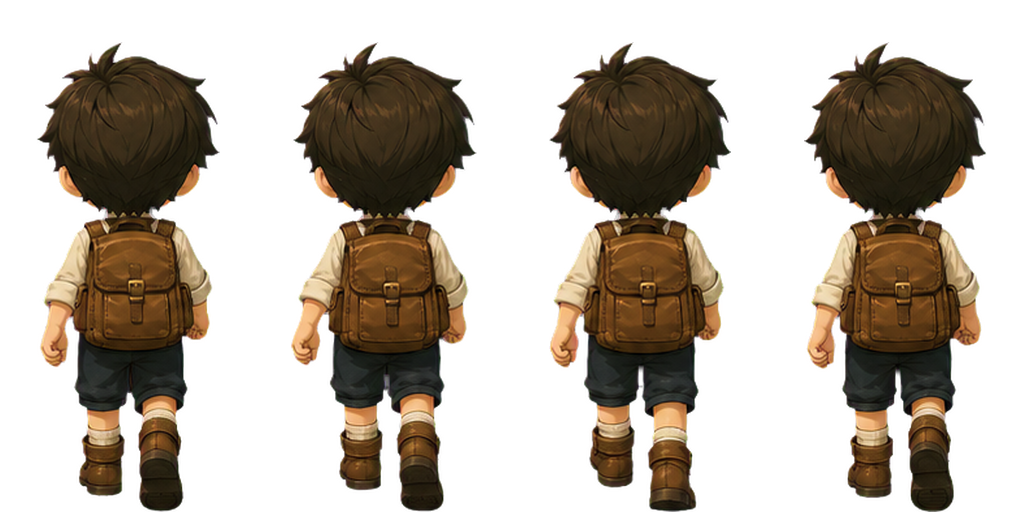
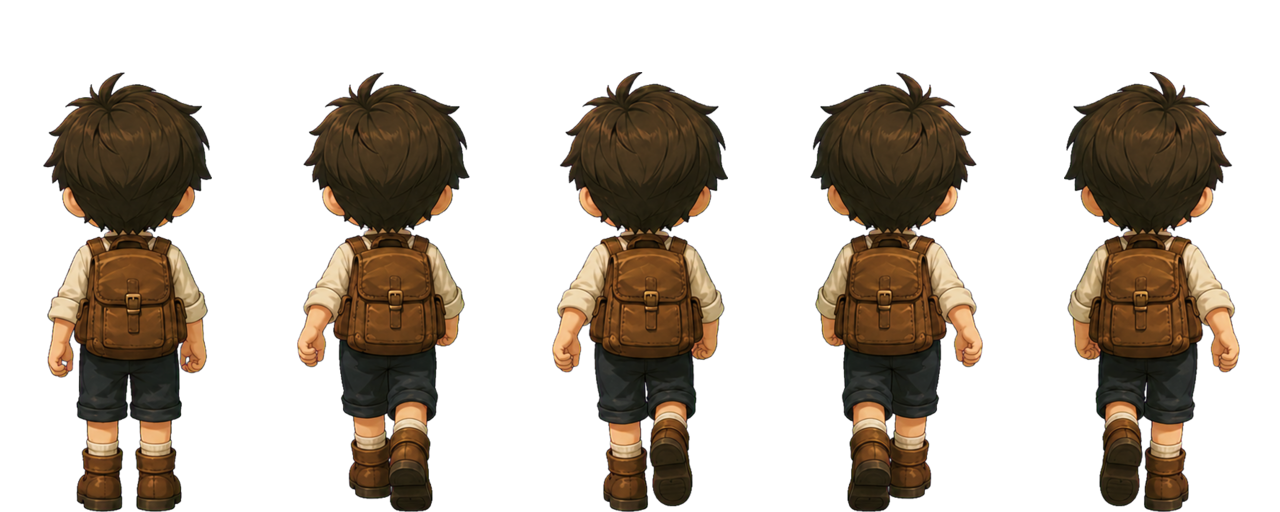
fix: smooth walking and ignite library roof

diff --git a/styles.css b/styles.css
@@ -181,7 +181,7 @@ img { display: block; width: 100%; user-select: none; -webkit-user-drag: none; }
   z-index: 2;
   inset: 0;
   display: block;
-  background: url("./assets/dragon-flight.webp?v=7") 0 0 / 300% 100% no-repeat;
+  background: url("./assets/dragon-flight.webp?v=8") 0 0 / 300% 100% no-repeat;
   animation: dragonFrames .72s linear infinite;
 }
 .dragon-flame {
@@ -189,10 +189,10 @@ img { display: block; width: 100%; user-select: none; -webkit-user-drag: none; }
   z-index: 1;
   left: 80%;
   top: 52%;
-  width: 82%;
-  height: 15%;
+  width: 135%;
+  height: 13%;
   opacity: 0;
-  transform: rotate(8deg) scaleX(.05);
+  transform: rotate(31deg) scaleX(.05);
   transform-origin: left center;
   clip-path: polygon(0 38%, 30% 7%, 25% 34%, 68% 0, 57% 38%, 100% 48%, 58% 66%, 72% 100%, 26% 67%, 31% 94%, 0 60%);
   background: linear-gradient(90deg, #fff9b3 0 16%, #ffc13a 34%, #ff681c 66%, #ee2510 82%, transparent 100%);
@@ -200,12 +200,13 @@ img { display: block; width: 100%; user-select: none; -webkit-user-drag: none; }
 }
 .dragon-event.is-active .dragon-flame { animation: dragonBreath 9s ease-in-out both; }
 @keyframes dragonFlight {
-  0% { opacity: 0; transform: translate3d(-90%, 45%, 0) scale(.72) rotate(-4deg); }
+  0% { opacity: 0; transform: translate3d(-120%, -20%, 0) scale(.68) rotate(-4deg); }
   10% { opacity: .82; }
-  38% { transform: translate3d(70%, -16%, 0) scale(.9) rotate(2deg); }
-  57% { opacity: .98; transform: translate3d(150%, 13%, 0) scale(1) rotate(-1deg); }
-  78% { opacity: .82; transform: translate3d(330%, -8%, 0) scale(.88) rotate(3deg); }
-  100% { opacity: 0; transform: translate3d(560%, 24%, 0) scale(.68) rotate(-2deg); }
+  38% { transform: translate3d(112%, -7%, 0) scale(.92) rotate(2deg); }
+  48% { opacity: .98; transform: translate3d(118%, -4%, 0) scale(.95) rotate(-1deg); }
+  67% { opacity: .98; transform: translate3d(121%, -6%, 0) scale(.95) rotate(1deg); }
+  82% { opacity: .76; transform: translate3d(230%, -75%, 0) scale(.82) rotate(-7deg); }
+  100% { opacity: 0; transform: translate3d(590%, -185%, 0) scale(.58) rotate(-12deg); }
 }
 @keyframes dragonFrames {
   0%, 31% { background-position: 0 0; }
@@ -213,9 +214,82 @@ img { display: block; width: 100%; user-select: none; -webkit-user-drag: none; }
   65%, 100% { background-position: 100% 0; }
 }
 @keyframes dragonBreath {
-  0%, 47%, 54%, 70%, 100% { opacity: 0; transform: rotate(8deg) scaleX(.05) scaleY(.45); }
-  57%, 65% { opacity: .96; transform: rotate(8deg) scaleX(1) scaleY(1); }
-  61% { opacity: 1; transform: rotate(6deg) scaleX(1.15) scaleY(.82); }
+  0%, 45%, 69%, 100% { opacity: 0; transform: rotate(31deg) scaleX(.05) scaleY(.45); }
+  49%, 65% { opacity: .96; transform: rotate(31deg) scaleX(1) scaleY(1); }
+  57% { opacity: 1; transform: rotate(29deg) scaleX(1.08) scaleY(.84); }
+}
+
+.library-roof-fire {
+  position: absolute;
+  z-index: 6;
+  left: 45.5%;
+  top: 23.5%;
+  width: 7.2%;
+  height: 15.5%;
+  opacity: 0;
+  pointer-events: none;
+  transform: scale(.25);
+  transform-origin: 50% 100%;
+  will-change: transform, opacity;
+}
+.library-roof-fire.is-burning { animation: roofFireLife 14s ease-out both; }
+.roof-fire-glow {
+  position: absolute;
+  left: -42%;
+  right: -42%;
+  bottom: -15%;
+  height: 76%;
+  border-radius: 50%;
+  background: radial-gradient(ellipse, #fff4a9c9 0 7%, #ff9d21a8 24%, #ff3c164f 48%, transparent 72%);
+  filter: blur(5px);
+  mix-blend-mode: screen;
+  animation: roofGlow .44s ease-in-out infinite alternate;
+}
+.library-roof-fire i {
+  position: absolute;
+  bottom: 10%;
+  width: 35%;
+  height: 72%;
+  border-radius: 52% 52% 48% 48%;
+  background: linear-gradient(180deg, #fff8b0 0 12%, #ffc02f 37%, #ff5b18 70%, #d9250b 100%);
+  clip-path: polygon(50% 0, 72% 24%, 95% 56%, 79% 100%, 18% 100%, 4% 58%, 28% 32%);
+  filter: drop-shadow(0 0 3px #ffb21e) drop-shadow(0 0 8px #f33a12b8);
+  transform-origin: 50% 100%;
+  animation: roofFlame .38s ease-in-out infinite alternate;
+}
+.library-roof-fire i:nth-of-type(1) { left: 6%; height: 58%; animation-delay: -.21s; }
+.library-roof-fire i:nth-of-type(2) { left: 33%; height: 86%; animation-duration: .46s; }
+.library-roof-fire i:nth-of-type(3) { right: 5%; height: 66%; animation-delay: -.33s; animation-duration: .41s; }
+.library-roof-fire b {
+  position: absolute;
+  left: 42%;
+  bottom: 62%;
+  width: 18%;
+  aspect-ratio: 1;
+  border-radius: 50%;
+  background: #4a403b8c;
+  filter: blur(3px);
+  opacity: 0;
+  animation: roofSmoke 2.7s ease-out infinite;
+}
+.library-roof-fire b:nth-of-type(2) { left: 22%; animation-delay: -.9s; scale: .72; }
+.library-roof-fire b:nth-of-type(3) { left: 66%; animation-delay: -1.8s; scale: .88; }
+@keyframes roofFireLife {
+  0% { opacity: 0; transform: scale(.25); }
+  5% { opacity: 1; transform: scale(.92); }
+  12%, 62% { opacity: 1; transform: scale(1); }
+  83% { opacity: .58; transform: scale(.82); }
+  100% { opacity: 0; transform: scale(.45); }
+}
+@keyframes roofFlame {
+  from { transform: translateY(2%) rotate(-4deg) scale(.88, .92); }
+  to { transform: translateY(-4%) rotate(5deg) scale(1.08, 1.12); }
+}
+@keyframes roofGlow { to { opacity: .72; transform: scale(1.12, .92); } }
+@keyframes roofSmoke {
+  0% { opacity: 0; transform: translate3d(0, 0, 0) scale(.45); }
+  18% { opacity: .44; }
+  100% { opacity: 0; transform: translate3d(18px, -64px, 0) scale(1.8); }
 }
 
 .player {
@@ -244,7 +318,7 @@ img { display: block; width: 100%; user-select: none; -webkit-user-drag: none; }
   position: absolute;
   left: 0;
   top: 0;
-  width: 400%;
+  width: 500%;
   max-width: none;
   height: 100%;
   image-rendering: auto;
@@ -393,6 +467,7 @@ html[data-period="night"] .breeze i { background: linear-gradient(135deg, #6ba9a
 html[data-period="night"] .flock { color: #8db5c3; filter: drop-shadow(0 0 2px #061327); opacity: .48; }
 html[data-period="night"] .dragon-event { filter: drop-shadow(0 2px 3px #020713) drop-shadow(0 0 4px #8fbaff77); }
 html[data-period="night"] .dragon-flame { filter: drop-shadow(0 0 7px #ffb02c) drop-shadow(0 0 18px #ff471dcc); }
+html[data-period="night"] .library-roof-fire { filter: drop-shadow(0 0 10px #ff8d21) drop-shadow(0 0 26px #ff3717ad); }
 html[data-period="night"] .hotspot::after {
   background: linear-gradient(180deg, #3c5267 0 15%, #26394b 16% 100%);
   border-color: #101821;

diff --git a/app.js b/app.js
@@ -5,6 +5,8 @@
   const W = 1184;
   const H = 532;
   const SPEED = 168;
+  const WALK_FRAME_DISTANCE = 19;
+  const DRAGON_IGNITION_DELAY = 5050;
   const START = { x: 577, y: 516 };
   const TARGET = { x: 770, y: 456 };
   const ZONE = { x1: 738, x2: 798, y1: 420, y2: 468 };
@@ -17,6 +19,7 @@
   const toast = document.getElementById('toast');
   const live = document.getElementById('live');
   const dragonEvent = document.getElementById('dragonEvent');
+  const libraryRoofFire = document.getElementById('libraryRoofFire');
   const pad = [...document.querySelectorAll('[data-move]')];
   const reduceMotion = matchMedia('(prefers-reduced-motion: reduce)');
 
@@ -32,8 +35,9 @@
     last: performance.now(),
     timer: 0,
     dragonTimer: 0,
+    dragonIgnitionTimer: 0,
     walkFrame: 0,
-    nextWalkFrame: 0,
+    walkDistance: 0,
   };
 
   let sprites = {};
@@ -72,13 +76,13 @@
       : direction === 'down'
         ? sprites.characterFront
         : sprites.characterSide;
-    setWalkFrame(0);
   }
 
   function setWalkFrame(frameIndex) {
     if (state.walkFrame === frameIndex && sprite.style.translate) return;
     state.walkFrame = frameIndex;
-    sprite.style.translate = `${frameIndex * -25}% 0`;
+    sprite.style.translate = `${frameIndex * -20}% 0`;
+    player.dataset.walkFrame = String(frameIndex);
   }
 
   function renderCamera() {
@@ -128,9 +132,12 @@
   }
 
   function move(dx, dy) {
+    const previousX = state.x;
+    const previousY = state.y;
     if (walkable(state.x + dx, state.y)) state.x += dx;
     if (walkable(state.x, state.y + dy)) state.y += dy;
     if (collision(state.x, state.y)) go();
+    return Math.hypot(state.x - previousX, state.y - previousY);
   }
 
   const direction = (dx, dy) => Math.abs(dx) > Math.abs(dy)
@@ -166,14 +173,13 @@
         if (state.autoEnter) go();
         state.autoEnter = false;
       }
-      return true;
+      return 0;
     }
     const step = Math.min(distance, SPEED * delta);
     const vx = dx / distance * step;
     const vy = dy / distance * step;
     face(direction(vx, vy));
-    move(vx, vy);
-    return true;
+    return move(vx, vy);
   }
 
   function toOffice() {
@@ -209,27 +215,25 @@
       if (state.keys.has('d') || state.keys.has('arrowright') || state.keys.has('right')) dx += 1;
       if (state.keys.has('w') || state.keys.has('arrowup') || state.keys.has('up')) dy -= 1;
       if (state.keys.has('s') || state.keys.has('arrowdown') || state.keys.has('down')) dy += 1;
-      let moving = false;
+      let moved = 0;
       if (dx || dy) {
         clearRoute();
         const length = Math.hypot(dx, dy);
         dx = dx / length * SPEED * delta;
         dy = dy / length * SPEED * delta;
         face(direction(dx, dy));
-        move(dx, dy);
-        moving = true;
+        moved = move(dx, dy);
       } else if (state.route.length) {
-        moving = routeStep(delta);
+        moved = routeStep(delta);
       }
+      const moving = moved > .05;
       player.classList.toggle('walking', moving);
       if (moving) {
-        if (now >= state.nextWalkFrame) {
-          setWalkFrame((state.walkFrame + 1) % 4);
-          state.nextWalkFrame = now + 115;
-        }
+        state.walkDistance += moved;
+        setWalkFrame(1 + Math.floor(state.walkDistance / WALK_FRAME_DISTANCE) % 4);
       } else {
         setWalkFrame(0);
-        state.nextWalkFrame = now;
+        state.walkDistance = 0;
       }
       render();
     }
@@ -249,7 +253,16 @@
       scheduleDragon();
       return;
     }
+    clearTimeout(state.dragonIgnitionTimer);
     dragonEvent.classList.add('is-active');
+    state.dragonIgnitionTimer = setTimeout(igniteLibraryRoof, DRAGON_IGNITION_DELAY);
+  }
+
+  function igniteLibraryRoof() {
+    if (reduceMotion.matches || document.hidden || state.entering) return;
+    libraryRoofFire.classList.remove('is-burning');
+    void libraryRoofFire.offsetWidth;
+    libraryRoofFire.classList.add('is-burning');
   }
 
   dragonEvent.addEventListener('animationend', (event) => {
@@ -258,16 +271,25 @@
     scheduleDragon();
   });
 
+  libraryRoofFire.addEventListener('animationend', (event) => {
+    if (event.target !== libraryRoofFire || event.animationName !== 'roofFireLife') return;
+    libraryRoofFire.classList.remove('is-burning');
+  });
+
   document.addEventListener('visibilitychange', () => {
     if (document.hidden) {
       clearTimeout(state.dragonTimer);
+      clearTimeout(state.dragonIgnitionTimer);
       dragonEvent.classList.remove('is-active');
+      libraryRoofFire.classList.remove('is-burning');
     } else {
       scheduleDragon(true);
     }
   });
   reduceMotion.addEventListener?.('change', () => {
+    clearTimeout(state.dragonIgnitionTimer);
     dragonEvent.classList.remove('is-active');
+    libraryRoofFire.classList.remove('is-burning');
     scheduleDragon(true);
   });
 
@@ -340,5 +362,5 @@
     note('마을을 불러오지 못했어요. 페이지를 새로고침해 주세요.', 6000);
   });
 
-  window.ASKI_EFFECTS = Object.freeze({ triggerDragon });
+  window.ASKI_EFFECTS = Object.freeze({ triggerDragon, igniteLibraryRoof });
 })();

diff --git a/index.html b/index.html
@@ -9,7 +9,7 @@
   <meta property="og:description" content="캐릭터를 움직여 Agent Office 건물의 문을 열고 들어가세요.">
   <title>ASKIWORLD — 마을을 탐험하세요</title>
   <link rel="icon" href="./favicon.svg" type="image/svg+xml">
-  <link rel="stylesheet" href="./styles.css?v=7">
+  <link rel="stylesheet" href="./styles.css?v=8">
 </head>
 <body>
 <noscript><div class="noscript">JavaScript를 켜 주세요. <a href="https://subagent-aski.vercel.app/">Agent Office 바로가기</a></div></noscript>
@@ -26,6 +26,11 @@
           <span class="dragon-sprite"></span>
           <span class="dragon-flame"></span>
         </div>
+      </div>
+      <div class="library-roof-fire" id="libraryRoofFire" aria-hidden="true">
+        <span class="roof-fire-glow"></span>
+        <i></i><i></i><i></i>
+        <b></b><b></b><b></b>
       </div>
       <div class="door" aria-hidden="true"><i></i><b class="left"></b><b class="right"></b></div>
       <div class="player facing-up" id="player" aria-label="ASKIWORLD 여행자"><span></span><div class="sprite-window"><img id="sprite" data-asset="characterBack" alt=""></div></div>
@@ -45,7 +50,7 @@
   <div class="loading" id="loading"><div><strong>ASKIWORLD</strong><span>마을을 불러오는 중…</span></div></div>
 </main>
 <div class="sr" id="live" aria-live="polite"></div>
-<script src="./atlas.js?v=7" defer></script>
-<script src="./app.js?v=7" defer></script>
+<script src="./atlas.js?v=8" defer></script>
+<script src="./app.js?v=8" defer></script>
 </body>
 </html>

diff --git a/atlas.js b/atlas.js
@@ -2,12 +2,12 @@
   'use strict';
 
   const SOURCES = {
-    village: './assets/village.png?v=7',
-    villageHD: './assets/village-hd.webp?v=7',
-    villageUHD: './assets/village-uhd.webp?v=7',
-    characterBack: './assets/character-back.png?v=7',
-    characterFront: './assets/character-front.png?v=7',
-    characterSide: './assets/character-side.png?v=7',
+    village: './assets/village.png?v=8',
+    villageHD: './assets/village-hd.webp?v=8',
+    villageUHD: './assets/village-uhd.webp?v=8',
+    characterBack: './assets/character-back.png?v=8',
+    characterFront: './assets/character-front.png?v=8',
+    characterSide: './assets/character-side.png?v=8',
   };
   const VILLAGES = {
     day: {
@@ -16,9 +16,9 @@
       uhd: SOURCES.villageUHD,
     },
     night: {
-      base: './assets/village-night.png?v=7',
-      hd: './assets/village-night-hd.webp?v=7',
-      uhd: './assets/village-night-uhd.webp?v=7',
+      base: './assets/village-night.png?v=8',
+      hd: './assets/village-night-hd.webp?v=8',
+      uhd: './assets/village-night-uhd.webp?v=8',
     },
   };
   const SEOUL_OFFSET = 9 * 60 * 60 * 1000;
